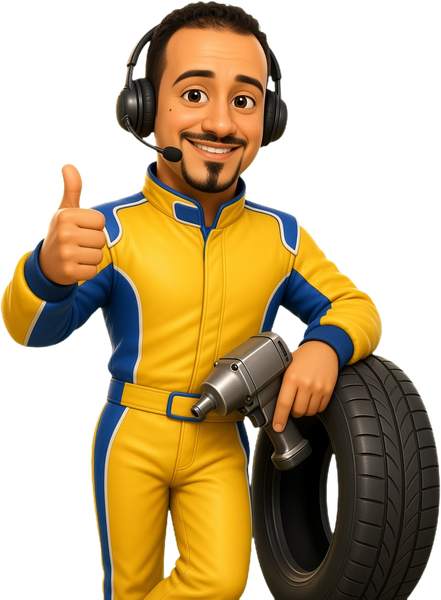
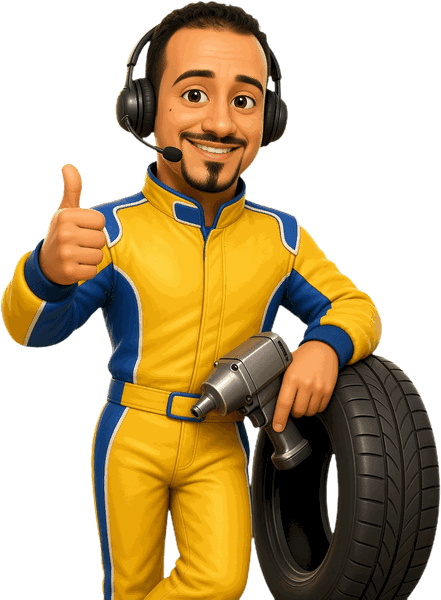
Crazy Dealz: remove leftover National Tire copy, replace the dead mid-page signup form with a call button, compress pit-crew.png, and refresh the privacy note.
The staged signup form stays on the crazydealz-signup-form branch and is not going live.

diff --git a/crazydealz/index.html b/crazydealz/index.html
@@ -27,25 +27,12 @@ html[data-lang=en] .lang-toggle .l-en,html[data-lang=es] .lang-toggle .l-es{back
 .lang-toggle:focus-visible{outline:3px solid #ffd200;outline-offset:3px}
 .bundle{margin:6px 0 10px;font:900 clamp(22px,2.6vw,30px)/1.05 CrazyDisplay,Impact,'Arial Narrow',Arial,sans-serif;text-transform:uppercase;color:var(--acid)}
 .signup{padding:50px 0 30px}
-.signup-form{display:none;max-width:560px;border:1px solid var(--line);background:#0e2a7aed;padding:24px;box-shadow:0 14px 40px #0003}
-.js .signup-form{display:block}
-.signup-form label{display:block;font-weight:700;font-size:15px;margin:0 0 14px}
-.signup-form label .opt{font-weight:400;color:var(--muted)}
-.signup-form input[type=text],.signup-form input[type=email],.signup-form input[type=month]{display:block;width:100%;margin-top:6px;padding:12px;font:16px Arial,Helvetica,sans-serif;border:2px solid #06143a;border-radius:6px;background:#fff;color:#0a2166;min-height:48px}
-.signup-form .consent{display:flex;gap:10px;align-items:flex-start;font-weight:400;font-size:14px;line-height:1.45;color:#fff}
-.signup-form .consent input{width:22px;height:22px;flex:0 0 22px;margin:1px 0 0;accent-color:#ffd200}
-.signup-form .consent a{color:var(--acid)}
-.signup-form button{border:0;cursor:pointer;font-family:Arial,Helvetica,sans-serif}
-.hp{position:absolute!important;left:-9999px!important;width:1px;height:1px;overflow:hidden}
-.form-status{margin:14px 0 0;font-size:15px;min-height:1em}
-.form-status a{color:var(--acid)}
-.form-status.err,.form-status.wait{color:#fff}
-.form-status.ok{color:var(--acid);font-weight:700}
+.signup .button{margin-top:10px}
 .js .mobile-call{transition:transform .25s ease,opacity .25s ease}
 .js .mobile-call.hide{transform:translateY(170%);opacity:0;pointer-events:none}
 footer a{color:inherit}
 html[lang=es] .burst-kicker{font-size:clamp(14px,1.75vw,22px);letter-spacing:.02em}
-@media(max-width:700px){header{justify-content:space-between}.brand small{white-space:nowrap;font-size:10px;letter-spacing:.7px}.lang-toggle{font-size:10px;flex:0 0 auto;padding:2px}.lang-toggle span{padding:5px 6px}.offer-ticker .ticker-track{white-space:normal}.offer-ticker .ticker-item{max-width:100%}.tick-label{min-width:0}html[lang=es] .burst-kicker{font-size:13px;letter-spacing:.03em}.signup-form{padding:18px}.hero-copy{padding-right:min(40vw,150px)}}
+@media(max-width:700px){header{justify-content:space-between}.brand small{white-space:nowrap;font-size:10px;letter-spacing:.7px}.lang-toggle{font-size:10px;flex:0 0 auto;padding:2px}.lang-toggle span{padding:5px 6px}.offer-ticker .ticker-track{white-space:normal}.offer-ticker .ticker-item{max-width:100%}.tick-label{min-width:0}html[lang=es] .burst-kicker{font-size:13px;letter-spacing:.03em}.hero-copy{padding-right:min(40vw,150px)}}
 </style>
 <style>
 @font-face{font-family:CrazyDisplay;src:url(anton-latin-v2.woff2) format("woff2");font-style:normal;font-weight:400 900;font-display:swap}@font-face{font-family:"Rubik Bubbles";src:url(rubik-bubbles.woff2) format("woff2");font-style:normal;font-weight:400;font-display:swap}:root{--asphalt:#0a2166;--panel:#0e2a7a;--ink:#fff;--muted:#c5d0f0;--acid:#ffd200;--line:#6a88d8;--corner:150px}*{box-sizing:border-box}html{scroll-behavior:smooth;scroll-padding-top:100px;overflow-x:clip}body{isolation:isolate;margin:0;background:var(--asphalt);color:var(--ink);font:17px/1.55 Arial,Helvetica,sans-serif;overflow-wrap:break-word}body:before{content:"";position:fixed;inset:0;z-index:-1;pointer-events:none;background:repeating-linear-gradient(113deg,transparent 0 4px,#fff 5px,transparent 6px 11px);opacity:.018}body:after{content:"";position:fixed;inset:-30%;z-index:-1;pointer-events:none;opacity:0;background:conic-gradient(from 30deg at 20% 30%,transparent,#ffd20015,transparent 35%);transform:translate3d(0,0,0)}.fx-enabled body:after{opacity:.8;animation:navy-light 22s ease-in-out infinite alternate}@keyframes navy-light{to{transform:translate3d(8%,4%,0) rotate(12deg)}}a{color:inherit}.hold{position:relative;z-index:8;background:var(--acid);color:#0a2166;text-align:center;padding:8px 20px;font-size:11px;line-height:1.4;font-weight:700}header{position:sticky;top:0;z-index:7;display:flex;align-items:center;justify-content:space-between;gap:16px;padding:20px max(24px,calc(var(--corner)*.96));border-bottom:1px solid var(--line);background:#0a2166f5}.brand{font:900 23px/1 CrazyDisplay,Impact,'Arial Narrow',Arial,sans-serif;letter-spacing:.1px}.brand small{display:block;margin-top:7px;font:10px/1.3 Arial,sans-serif;letter-spacing:2px;color:var(--muted)}.pill{border:1px solid var(--line);padding:8px 14px;border-radius:30px;font-size:12px}.header-call{display:inline-block;text-decoration:none;background:var(--acid);color:#0a2166;padding:12px 18px;font-size:14px;font-weight:bold;white-space:nowrap}.scrolly{max-width:1100px;margin:auto;display:block;position:relative;z-index:2;padding:0 max(5vw,calc(var(--corner)*.55))}.narrative{position:relative;z-index:2;min-width:0;padding:36px 0 0}.hero{padding:28px 0 36px;min-height:0;display:flex;flex-direction:row;align-items:flex-end;justify-content:flex-start;gap:12px 28px}.hero-copy{min-width:0;flex:1}.hero-cta-row{display:flex;align-items:flex-end;flex-wrap:wrap;gap:8px 28px;margin:4px 0 8px}.hero-actions{display:flex;flex-direction:column;align-items:flex-start}.hero-mascot{flex:0 0 auto;width:min(250px,30vw);max-width:250px;pointer-events:none;position:relative;z-index:2}.hero-mascot img{width:100%;height:auto;display:block}.corner-tires{position:fixed;inset:0;z-index:8;pointer-events:none;overflow:hidden}.corner-tire{position:absolute;width:calc(var(--corner)*2);height:calc(var(--corner)*2);pointer-events:none}.corner-tl{top:0;left:0;transform:translate(-50%,-50%)}.corner-tr{top:0;right:0;transform:translate(50%,-50%)}.corner-bl{bottom:0;left:0;transform:translate(-50%,50%)}.corner-br{bottom:0;right:0;transform:translate(50%,50%)}.tire-scroll,.tire-idle{width:100%;height:100%;transform-origin:50% 50%}.corner-tire img{width:100%;height:100%;display:block}.offer-ticker{overflow:hidden;margin:8px 0 36px;padding:18px 0;border-top:1px solid var(--line);border-bottom:1px solid var(--line);background:#0e2a7acc}.ticker-scroll{width:100%}.ticker-idle{width:max-content}.ticker-track{display:flex;align-items:center;gap:56px;width:max-content;white-space:nowrap}.ticker-item{display:flex;align-items:center;gap:16px}.offer-ticker .price-bubble{font-size:clamp(36px,4.2vw,58px);margin:0}.tick-label{font-family:CrazyDisplay,Impact,'Arial Narrow',Arial,sans-serif;text-transform:uppercase;font-weight:900;font-size:clamp(16px,2vw,22px);letter-spacing:.5px;color:#fff;line-height:1}.tick-label small{display:block;margin-top:4px;font:700 11px/1 Arial,sans-serif;letter-spacing:1.5px;color:var(--muted);text-transform:uppercase}.eyebrow,.number{text-transform:uppercase;letter-spacing:2px;color:var(--acid);font-size:11px;font-weight:700}h1,h2,h3{font-family:CrazyDisplay,Impact,'Arial Narrow','Franklin Gothic Condensed',Arial,sans-serif;font-weight:900;line-height:.98;letter-spacing:-1px;text-transform:uppercase}h1{font-size:clamp(54px,6.7vw,108px);margin:24px 0;max-width:760px}h1 span{color:var(--acid)}.intro{font-size:20px;max-width:470px;color:var(--muted)}.intro strong{display:block;color:var(--ink);font-size:17px;font-weight:400;margin-top:15px}.button{display:inline-block;text-decoration:none;background:var(--acid);color:#0a2166;padding:16px 21px;min-height:52px;font-size:14px;font-weight:700;width:fit-content}.hero .button{margin:7px 0}.secondary{background:transparent;color:var(--ink);border:1px solid var(--acid)}.small{font-size:12px;color:var(--muted)}.content{padding:50px 0 80px}h2{font-size:clamp(40px,4vw,62px);margin:15px 0 30px}h3{font-size:30px;margin:0}.grid{display:block}.card{position:relative;min-height:200px;margin:0 0 18px;padding:28px;border:1px solid var(--line);background:#0e2a7aed;box-shadow:0 14px 40px #0003}.card summary{cursor:pointer;list-style:none;display:block;padding-right:44px}.card summary::-webkit-details-marker{display:none}.card summary::marker{content:"";display:none}.card summary:after{content:"+";position:absolute;right:24px;top:19px;color:var(--acid);font-size:27px;line-height:1;font-weight:700}.card[open] summary:after{content:"–"}.card h3{margin:0}.card p{margin:20px 0 0;max-width:330px;color:var(--muted)}.card>a{display:inline-block;margin-top:16px;color:var(--acid);text-underline-offset:4px}.card:nth-child(even){border-left:3px solid var(--acid)}.visit{background:var(--acid);color:#0a2166;padding:32px;margin:25px 0 40px}.visit .number,.visit .small,.visit .muted{color:#163070}.visit h2{font-size:44px}address{font-style:normal;font-size:20px}address strong{font-weight:700}.visit dl{padding-top:22px}dt{font-weight:bold}dd{margin:3px 0 19px}.visit a{text-underline-offset:4px}.map{width:100%;height:230px;border:0;margin-top:15px}details{border-top:1px solid var(--line);padding:19px 0}summary{cursor:pointer;font-size:17px;font-weight:bold;list-style-position:outside;margin-left:18px}details p{color:var(--muted);font-size:15px}.visit details{border-color:#0a2166}.bottom{margin-top:60px;padding-top:30px;border-top:1px solid var(--line)}.muted{color:var(--muted)}.mobile-call{display:none}footer{position:relative;z-index:2;border-top:1px solid var(--line);padding:35px 5vw 45px;color:var(--muted);font-size:12px;line-height:2}a:focus-visible,summary:focus-visible{outline:3px solid #ffd200;outline-offset:5px}.button:focus-visible,.header-call:focus-visible,.visit a:focus-visible{outline-color:#0a2166}.reveal{opacity:1} .io-ready .reveal:not(.in-view){opacity:.7;transform:translateY(20px)}.io-ready .reveal{transition:opacity .5s ease,transform .5s ease}
@@ -318,7 +305,7 @@ header{padding:8px max(10px,calc(var(--corner) + 10px));gap:6px}
 <article class="price-card reveal"><h3 data-es="Rin con grieta">Cracked rim</h3><p class="price-tag"><span class="visually-hidden">$129.98</span><span aria-hidden="true" class="price-bubble"><span class="dlr">$</span>129<sup>98</sup></span></p><p class="muted" data-es="Reparación de rin">Rim repair</p></article>
 <article class="price-card reveal"><h3 data-es="Rin doblado">Bent rim</h3><p class="price-tag"><span class="visually-hidden">$69.98</span><span aria-hidden="true" class="price-bubble"><span class="dlr">$</span>69<sup>98</sup></span></p><p class="muted" data-es="Reparación de rin">Rim repair</p></article>
 </div><p class="bundle reveal" data-es="Pregunte por paquetes especiales.">Ask about bundle deals.</p><p class="small reveal" data-es="Precios publicados en el taller. Llame para su medida y su vehículo.">Prices as posted at the shop. Call for your size and vehicle.</p></section>
-<section aria-labelledby="visit" class="visit reveal"><div><div class="number" data-es="VISÍTENOS">PULL INTO THE PIT</div><h2 id="visit" data-es="Su parada en Macon Road.">Your Macon Road pit stop.</h2><address><strong>Crazy Dealz Tires</strong><br/>3395 Macon Rd<br/>Memphis, TN 38122<br/><a href="tel:+16465068189">(646) 506-8189</a></address><p class="muted" data-es="Atendemos Binghampton y los vecindarios cercanos de Memphis, cerca de la salida 6 de la I-40.">Serving Binghampton and nearby Memphis neighborhoods, near I-40 Exit 6.</p><p class="small" data-es="Estamos donde antes estaba National Tire Shop, 3395 Macon Rd.">Located at the former National Tire Shop spot, 3395 Macon Rd.</p>
+<section aria-labelledby="visit" class="visit reveal"><div><div class="number" data-es="VISÍTENOS">PULL INTO THE PIT</div><h2 id="visit" data-es="Su parada en Macon Road.">Your Macon Road pit stop.</h2><address><strong>Crazy Dealz Tires</strong><br/>3395 Macon Rd<br/>Memphis, TN 38122<br/><a href="tel:+16465068189">(646) 506-8189</a></address><p class="muted" data-es="Atendemos Binghampton y los vecindarios cercanos de Memphis, cerca de la salida 6 de la I-40.">Serving Binghampton and nearby Memphis neighborhoods, near I-40 Exit 6.</p>
 <figure class="shop-photo">
 <picture>
 <source srcset="storefront-wide-800.webp 800w, storefront-wide.webp 1200w" sizes="(max-width:700px) 92vw, 520px" type="image/webp"/>
@@ -326,21 +313,9 @@ header{padding:8px max(10px,calc(var(--corner) + 10px));gap:6px}
 </picture>
 </figure>
 <a href="https://www.google.com/maps/search/?api=1&amp;query=3395+Macon+Rd+Memphis+TN+38122" data-es="Ver en el mapa →">Map the pit on Macon Rd →</a></div><div><dl><dt data-es="Horario">Shop hours</dt><dd data-es="Lun–Vie 7:30 AM–7 PM<br/>Sáb 8 AM–7 PM<br/>Dom 10 AM–5 PM">Mon–Fri 7:30 AM–7 PM<br/>Sat 8 AM–7 PM<br/>Sun 10 AM–5 PM</dd><dt data-es="Antes de llamar">Before you call</dt><dd data-es="Tenga a la mano el año, la marca y el modelo de su vehículo y la medida de la llanta.">Have your vehicle’s year, make, model and tire size ready.</dd><dt data-es="Antes de empezar el trabajo">Before work begins</dt><dd data-es="Su cotización detalla las llantas, la mano de obra, los cargos aplicables y los impuestos.">Your quote lists the tires, labor, applicable fees and tax.</dd></dl><details><summary data-es="Mostrar mapa de Google">Show Google map</summary><iframe class="map" data-src="https://maps.google.com/maps?q=3395%20Macon%20Rd%20Memphis%20TN%2038122&amp;output=embed" loading="lazy" referrerpolicy="no-referrer-when-downgrade" title="Map of 3395 Macon Rd, Memphis" data-es-title="Mapa de 3395 Macon Rd, Memphis"></iframe></details></div></section>
-<section aria-labelledby="signup" class="signup reveal" id="join"><div class="number" data-es="LISTA DEL EQUIPO">PIT CREW LIST</div><h2 id="signup" data-es="Únase a la lista del equipo.">Join the pit crew list.</h2><p class="muted" data-es="Ofertas y recordatorios de llantas y aceite por correo electrónico. Sin mensajes de texto.">Deals plus tire and oil reminders by email. No texts.</p>
-<noscript><p>Call (646) 506-8189 to join the list. / Llame al (646) 506-8189 para unirse a la lista.</p></noscript>
-<form class="signup-form" id="signup-form" data-endpoint="" novalidate>
-<input type="hidden" name="_subject" value="New Crazy Dealz pit crew list sign-up"/>
-<input type="hidden" name="language" id="f-lang" value="en"/>
-<input type="hidden" name="source" value="ai901.help/crazydealz"/>
-<label class="hp" aria-hidden="true">Leave blank<input type="text" name="_honey" tabindex="-1" autocomplete="off"/></label>
-<label><span data-es="Nombre">First name</span><input type="text" name="first_name" autocomplete="given-name" required maxlength="60"/></label>
-<label><span data-es="Correo electrónico">Email</span><input type="email" name="email" autocomplete="email" required maxlength="120"/></label>
-<label><span data-es="Vehículo: año, marca y modelo <span class='opt'>(opcional)</span>">Vehicle year, make and model <span class="opt">(optional)</span></span><input type="text" name="vehicle" maxlength="80" placeholder="2015 Honda Accord"/></label>
-<label><span data-es="Mes del próximo cambio de aceite <span class='opt'>(opcional)</span>">Next oil change due <span class="opt">(optional)</span></span><input type="month" name="oil_due" min="2026-11"/></label>
-<label class="consent"><input type="checkbox" name="email_consent" value="yes" required/><span data-es="Sí, envíenme por correo ofertas y recordatorios de aceite y llantas de Crazy Dealz Tires. Puedo darme de baja cuando quiera. Crazy Dealz Tires no vende mi información. Vea el <a href='privacy.html#es'>aviso de privacidad</a>.">Yes, email me Crazy Dealz Tires deals and oil and tire reminders. I can unsubscribe anytime. Crazy Dealz Tires does not sell my information. See the <a href="privacy.html">privacy note</a>.</span></label>
-<button type="submit" class="button" data-es="Unirme a la lista">Join the list</button>
-<p class="form-status" id="form-status" role="status" aria-live="polite"></p>
-</form></section>
+<section aria-labelledby="call-shop" class="signup reveal" id="join"><div class="number" data-es="LLAME AL TALLER">CALL THE PIT CREW</div><h2 id="call-shop" data-es="¿Necesita llantas usadas, un cambio de aceite o frenos?">Need used tires, an oil change, or brakes?</h2><p class="muted" data-es="Llame al taller o pase al 3395 Macon Rd.">Call the shop or stop by 3395 Macon Rd.</p>
+<p><a class="button" href="tel:+16465068189" aria-label="Call the pit crew at (646) 506-8189" data-es-aria="Llame al equipo al (646) 506-8189" data-es="Llame al equipo · (646) 506-8189">Call the pit crew · (646) 506-8189</a></p>
+</section>
 <section class="content"><div class="number" data-es="PREGUNTAS">PIT FAQS</div><h2 class="reveal" data-es="Antes de venir.">Before you pull in.</h2>
 <details class="reveal"><summary data-es="¿Dónde está Crazy Dealz Tires?">Where is Crazy Dealz Tires?</summary><p>3395 Macon Rd, Memphis, TN 38122.</p></details>
 <details class="reveal"><summary data-es="¿Venden llantas usadas?">Do you sell used tires?</summary><p data-es="Sí. Tenemos llantas usadas desde $34.98 en la mayoría de medidas.">Yes. Used tires start at $34.98 for most sizes.</p></details>
@@ -352,7 +327,6 @@ header{padding:8px max(10px,calc(var(--corner) + 10px));gap:6px}
 <details class="reveal"><summary data-es="¿Reparan ponchaduras?">Can you fix a flat?</summary><p data-es="Toda reparación empieza con una inspección. Llame para ver si podemos reparar la suya. <a href='flat-repair/'>Más sobre ponchaduras</a>.">Every flat repair starts with an inspection. Call to see if we can fix yours. <a href="flat-repair/">More on flat repair</a>.</p></details>
 <details class="reveal"><summary data-es="¿Montan y balancean llantas?">Do you mount and balance tires?</summary><p data-es="Sí, para llantas y rines compatibles. Llame con la medida de su llanta. <a href='mount-and-balance/'>Más sobre montaje y balanceo</a>.">Yes, for compatible tires and wheels. Call with your tire size. <a href="mount-and-balance/">More on mount &amp; balance</a>.</p></details>
 <details class="reveal"><summary data-es="¿Dónde encuentro la medida de mi llanta?">Where do I find my tire size?</summary><p data-es="Está impresa en el costado de la llanta, por ejemplo 205/55R16. Léanosla cuando llame.">It is printed on the side of the tire, for example 205/55R16. Read it to us when you call.</p></details>
-<details class="reveal"><summary data-es="¿Es el antiguo National Tire Shop?">Is this the old National Tire Shop spot?</summary><p data-es="Sí. Crazy Dealz Tires está donde antes estaba National Tire Shop, en 3395 Macon Rd. Nuestro número es (646) 506-8189.">Yes. Crazy Dealz Tires is at the former National Tire Shop spot, 3395 Macon Rd. Our number is (646) 506-8189.</p></details>
 <details class="reveal"><summary data-es="¿Qué zona atienden?">What area do you serve?</summary><p data-es="Binghampton y los vecindarios cercanos de Memphis, cerca de la salida 6 de la I-40.">Binghampton and nearby Memphis neighborhoods, near I-40 Exit 6.</p></details>
 <details class="reveal"><summary data-es="¿Cuál es su horario?">What are your hours?</summary><p data-es="Lun–Vie 7:30 AM–7 PM, Sáb 8 AM–7 PM, Dom 10 AM–5 PM.">Mon–Fri 7:30 AM–7 PM, Sat 8 AM–7 PM, Sun 10 AM–5 PM.</p></details>
 <div class="bottom reveal"><h2 data-es="Llame al equipo.">Call the pit crew.</h2><p class="muted" data-es="Díganos su vehículo y la medida de su llanta, y toque Llamar.">Tell us your vehicle and tire size, then tap Call.</p><a class="button" href="tel:+16465068189" data-es="Llamar (646) 506-8189">Call (646) 506-8189</a></div></section><a class="mobile-call button" href="tel:+16465068189" aria-label="Call the pit crew at (646) 506-8189" data-es-aria="Llame al equipo al (646) 506-8189" data-es="Llame al equipo">Call the pit crew</a></div></div></main>
@@ -366,29 +340,15 @@ document.querySelectorAll('details').forEach(d=>d.addEventListener('toggle',()=>
 </script><script>
 (()=>{'use strict';const d=document.documentElement;
 const META={en:{title:document.title,desc:(document.querySelector('meta[name=description]')||{}).content||''},es:{title:'Llantas usadas en Memphis, TN | Crazy Dealz Tires en Macon Rd',desc:'Llantas usadas desde $34.98 en la mayoría de medidas, cambio de aceite $24.98, frenos $39.98 y reparación de rines. Crazy Dealz Tires, 3395 Macon Rd, Memphis, TN 38122. Llame al (646) 506-8189.'}};
-const MSG={en:{none:'Online sign-up is not open yet, so nothing was sent. Ask the pit crew to add you at the counter, or <a href="tel:+16465068189">call (646) 506-8189</a>.',wait:'Sending…',ok:'You are on the list. Welcome to the pit crew!',err:'That did not go through. Please <a href="tel:+16465068189">call (646) 506-8189</a> and we will add you.',first:'Please enter your first name.',email:'Please enter a valid email.',consent:'Please check the box so we can email you.'},es:{none:'La inscripción en línea aún no está abierta, así que no se envió nada. Pida al equipo que lo agregue en el mostrador o <a href="tel:+16465068189">llame al (646) 506-8189</a>.',wait:'Enviando…',ok:'¡Ya está en la lista! Bienvenido al equipo.',err:'No se pudo enviar. Por favor <a href="tel:+16465068189">llame al (646) 506-8189</a> y lo agregamos.',first:'Escriba su nombre.',email:'Escriba un correo electrónico válido.',consent:'Marque la casilla para que podamos enviarle correos.'}};
 const pairs=[['data-es',null],['data-es-aria','aria-label'],['data-es-alt','alt'],['data-es-title','title'],['data-es-href','href']];
 let lang=d.getAttribute('data-lang')==='es'?'es':'en';
 function apply(l){lang=l;d.lang=l;d.setAttribute('data-lang',l);
 pairs.forEach(([a,attr])=>document.querySelectorAll('['+a+']').forEach(el=>{const k='en_'+(attr||'html');if(el[k]===undefined)el[k]=attr?el.getAttribute(attr):el.innerHTML;const v=l==='es'?el.getAttribute(a):el[k];if(attr){if(v==null)el.removeAttribute(attr);else el.setAttribute(attr,v);}else el.innerHTML=v;}));
 document.title=META[l].title;const md=document.querySelector('meta[name=description]');if(md)md.content=META[l].desc;
-const f=document.getElementById('f-lang');if(f)f.value=l;const st=document.getElementById('form-status');if(st){st.textContent='';st.className='form-status';}
 d.classList.remove('i18n-pending');}
 apply(lang);
 const t=document.getElementById('lang-toggle');if(t)t.addEventListener('click',()=>{const n=lang==='es'?'en':'es';try{localStorage.setItem('cdz-lang',n)}catch(e){}apply(n);});
-/* sign-up */
-const form=document.getElementById('signup-form'),st=document.getElementById('form-status');
-function say(k,cls){st.innerHTML=MSG[lang][k];st.className='form-status '+cls;}
-if(form)form.addEventListener('submit',async e=>{e.preventDefault();const fn=form.first_name,em=form.email,cb=form.email_consent;
-if(!fn.value.trim()){say('first','err');fn.focus();return}
-if(!em.value.trim()||!em.checkValidity()){say('email','err');em.focus();return}
-if(!cb.checked){say('consent','err');cb.focus();return}
-if(form._honey&&form._honey.value){say('ok','ok');form.reset();return}
-const ep=(form.dataset.endpoint||'').trim();if(!ep){say('none','err');return}
-say('wait','wait');const btn=form.querySelector('button');btn.disabled=true;
-try{const fd=new FormData(form);fd.set('consent_text',form.querySelector('.consent span').textContent.trim());fd.set('consent_time',new Date().toISOString());
-const r=await fetch(ep,{method:'POST',headers:{Accept:'application/json'},body:fd});if(!r.ok)throw new Error(r.status);form.reset();document.getElementById('f-lang').value=lang;say('ok','ok');}catch(err){say('err','err');}finally{btn.disabled=false;}});
-/* phone call bar: hide while the hero call button or the sign-up form is on screen */
+/* phone call bar: hide while the hero call button or the mid-page call button is on screen */
 const bar=document.querySelector('.mobile-call'),heroBtns=document.querySelector('.hero-actions'),sign=document.getElementById('join');
 if(bar&&'IntersectionObserver'in window){const vis=new Map();const upd=()=>{const hide=[...vis.values()].some(Boolean);bar.classList.toggle('hide',hide);};
 const io=new IntersectionObserver(es=>{es.forEach(x=>vis.set(x.target,x.isIntersecting));upd();},{threshold:0});[heroBtns,sign].forEach(n=>{if(n){vis.set(n,true);io.observe(n);}});upd();}

diff --git a/crazydealz/privacy.html b/crazydealz/privacy.html
@@ -1,50 +1,60 @@
 <!DOCTYPE html>
 <html lang="en"><head><meta charset="utf-8"/><meta name="viewport" content="width=device-width,initial-scale=1"/>
 <title>Privacy note | Crazy Dealz Tires</title>
-<meta name="description" content="How Crazy Dealz Tires handles the pit crew email list: what we collect, how to unsubscribe, and our promise not to sell your information."/>
+<meta name="description" content="How Crazy Dealz Tires handles contact information you share with the shop, and our promise not to sell your information."/>
 <link rel="canonical" href="https://ai901.help/crazydealz/privacy.html"/>
 <meta name="theme-color" content="#0a2166"/>
+<meta property="og:type" content="website"/>
+<meta property="og:title" content="Privacy note | Crazy Dealz Tires"/>
+<meta property="og:description" content="How Crazy Dealz Tires handles contact information you share with the shop, and our promise not to sell your information."/>
+<meta property="og:url" content="https://ai901.help/crazydealz/privacy.html"/>
+<meta property="og:image" content="https://ai901.help/crazydealz/og-image.jpg"/>
+<meta property="og:image:alt" content="Crazy Dealz Tires used tires on Macon Rd in Memphis. Used tires $34.98 most sizes. Call (646) 506-8189."/>
+<meta name="twitter:card" content="summary_large_image"/>
+<meta name="twitter:title" content="Privacy note | Crazy Dealz Tires"/>
+<meta name="twitter:description" content="How Crazy Dealz Tires handles contact information you share with the shop, and our promise not to sell your information."/>
+<meta name="twitter:image" content="https://ai901.help/crazydealz/og-image.jpg"/>
 <style>body{font:17px/1.6 Arial,Helvetica,sans-serif;max-width:720px;margin:0 auto;padding:28px 20px 60px;color:#0a2166;background:#fff}h1,h2{line-height:1.2}h1{font-size:30px}h2{font-size:21px;margin-top:28px}a{color:#0a2166}.top{display:flex;justify-content:space-between;gap:12px;flex-wrap:wrap;font-weight:700}hr{margin:44px 0;border:0;border-top:2px solid #ffd200}.small{font-size:14px;color:#3a4a7a}</style>
 </head><body>
 <p class="top"><a href="./">← Crazy Dealz Tires</a><a href="#es" lang="es">Español</a></p>
 <section id="en">
 <h1>Crazy Dealz Tires privacy note</h1>
-<p class="small">Last updated November 11, 2026. Covers the pit crew email list on this website.</p>
+<p class="small">Last updated November 15, 2026. Online sign-up on this website is not open yet. This note covers contact information you share with the shop by calling or at the counter.</p>
 <h2>What we collect</h2>
-<p>When you join the pit crew list we collect your first name and email address. If you choose to share them, we also collect your vehicle year, make and model and the month your next oil change is due. We record that you checked the consent box, the time you signed up, and whether you viewed the page in English or Spanish.</p>
+<p>If you give the shop your name, phone number, email address, or vehicle details so we can help you, we keep that information for shop use. We do not collect sign-ups through a form on this website today.</p>
 <h2>Why we collect it</h2>
-<p>To email you shop deals, oil change and tire check reminders, and the occasional request for a review after a visit. We only email you if you check the consent box.</p>
-<h2>No texts from this form</h2>
-<p>This form does not sign you up for text messages. We will not text you marketing messages based on this form.</p>
+<p>To reach you about your visit, a quote, or service reminders you asked for. We do not add you to a marketing list unless you ask us to.</p>
+<h2>Texts</h2>
+<p>Texting is not set up yet. Sharing your phone number with the shop does not sign you up for marketing texts.</p>
 <h2>We do not sell your information</h2>
-<p>Crazy Dealz Tires does not sell, rent or trade your information. It is kept in the shop's private customer list and in the service providers we use to collect sign-ups and send email, only for the reasons above. ai901, the shop's website and marketing helper, may manage the list for the shop under the same rules.</p>
-<h2>Unsubscribe anytime</h2>
-<p>Every email includes an unsubscribe link and the shop's address. You can also reply "unsubscribe" or call (646) 506-8189. We stop emailing you within 10 business days of your request.</p>
+<p>Crazy Dealz Tires does not sell, rent or trade your information. It is kept in the shop's private customer records, only for the reasons above. ai901, the shop's website and marketing helper, may help the shop under the same rules.</p>
+<h2>How to reach us or ask us to stop</h2>
+<p>Call (646) 506-8189 to ask us to correct or delete your information, or to stop contacting you. We will handle that request within 10 business days.</p>
 <h2>How long we keep it</h2>
-<p>We keep your information while you are on the list. If you unsubscribe we keep only your email on a do-not-email list so we do not contact you again. You can ask us to delete or correct your information at any time by calling the shop.</p>
+<p>We keep your information while we need it for your service or while you have asked us to stay in touch. You can ask us to delete or correct it at any time by calling the shop.</p>
 <h2>Kids</h2>
-<p>The list is for adults. We do not knowingly collect information from children under 13.</p>
+<p>Our services are for adults. We do not knowingly collect information from children under 13.</p>
 <h2>Contact</h2>
 <p>Crazy Dealz Tires · 3395 Macon Rd, Memphis, TN 38122 · <a href="tel:+16465068189">(646) 506-8189</a></p>
 </section>
 <hr/>
 <section id="es" lang="es">
 <h1>Aviso de privacidad de Crazy Dealz Tires</h1>
-<p class="small">Última actualización: 11 de noviembre de 2026. Aplica a la lista de correo del equipo en este sitio web.</p>
+<p class="small">Última actualización: 15 de noviembre de 2026. La inscripción en línea en este sitio web aún no está abierta. Este aviso cubre la información de contacto que usted comparte con el taller por teléfono o en el mostrador.</p>
 <h2>Qué información recopilamos</h2>
-<p>Cuando se une a la lista recopilamos su nombre y su correo electrónico. Si decide compartirlos, también recopilamos el año, la marca y el modelo de su vehículo y el mes de su próximo cambio de aceite. Registramos que marcó la casilla de consentimiento, la hora en que se inscribió y si vio la página en inglés o en español.</p>
+<p>Si nos da su nombre, teléfono, correo electrónico o datos de su vehículo para que podamos atenderlo, guardamos esa información para uso del taller. Hoy no recopilamos inscripciones por un formulario en este sitio web.</p>
 <h2>Para qué la usamos</h2>
-<p>Para enviarle por correo ofertas del taller, recordatorios de cambio de aceite y revisión de llantas, y de vez en cuando pedirle una reseña después de su visita. Solo le enviamos correos si marca la casilla de consentimiento.</p>
-<h2>Sin mensajes de texto</h2>
-<p>Este formulario no lo inscribe para recibir mensajes de texto. No le enviaremos mensajes de texto de mercadeo por este formulario.</p>
+<p>Para comunicarnos con usted sobre su visita, una cotización o recordatorios de servicio que usted pidió. No lo agregamos a una lista de mercadeo a menos que nos lo pida.</p>
+<h2>Mensajes de texto</h2>
+<p>El envío de mensajes de texto aún no está configurado. Dar su teléfono al taller no lo inscribe para recibir mensajes de texto de mercadeo.</p>
 <h2>No vendemos su información</h2>
-<p>Crazy Dealz Tires no vende, alquila ni intercambia su información. Se guarda en la lista privada de clientes del taller y en los servicios que usamos para recibir inscripciones y enviar correos, solo para los fines anteriores. ai901, quien ayuda al taller con su sitio web y mercadeo, puede manejar la lista para el taller bajo las mismas reglas.</p>
-<h2>Dese de baja cuando quiera</h2>
-<p>Cada correo incluye un enlace para darse de baja y la dirección del taller. También puede responder "baja" o llamar al (646) 506-8189. Dejamos de enviarle correos dentro de 10 días hábiles después de su solicitud.</p>
+<p>Crazy Dealz Tires no vende, alquila ni intercambia su información. Se guarda en los registros privados del taller, solo para los fines anteriores. ai901, quien ayuda al taller con su sitio web y mercadeo, puede ayudar al taller bajo las mismas reglas.</p>
+<h2>Cómo contactarnos o pedirnos que paremos</h2>
+<p>Llame al (646) 506-8189 para pedirnos que corrijamos o borremos su información, o que dejemos de contactarlo. Atenderemos esa solicitud dentro de 10 días hábiles.</p>
 <h2>Cuánto tiempo la guardamos</h2>
-<p>Guardamos su información mientras esté en la lista. Si se da de baja, solo guardamos su correo en una lista de no contactar para no volver a escribirle. Puede pedirnos que borremos o corrijamos su información en cualquier momento llamando al taller.</p>
+<p>Guardamos su información mientras la necesitemos para su servicio o mientras usted nos haya pedido que lo mantengamos informado. Puede pedirnos que la borremos o corrijamos en cualquier momento llamando al taller.</p>
 <h2>Menores</h2>
-<p>La lista es para adultos. No recopilamos a sabiendas información de menores de 13 años.</p>
+<p>Nuestros servicios son para adultos. No recopilamos a sabiendas información de menores de 13 años.</p>
 <h2>Contacto</h2>
 <p>Crazy Dealz Tires · 3395 Macon Rd, Memphis, TN 38122 · <a href="tel:+16465068189">(646) 506-8189</a></p>
 </section>

diff --git a/crazydealz/brakes/index.html b/crazydealz/brakes/index.html
@@ -97,7 +97,7 @@
 <section class="visit"><h2 data-es="Su parada en Macon Road.">Your Macon Road pit stop.</h2>
 <address><strong>Crazy Dealz Tires</strong><br/>3395 Macon Rd<br/>Memphis, TN 38122<br/><a href="tel:+16465068189">(646) 506-8189</a></address>
 <p data-es="Lun–Vie 7:30 AM–7 PM · Sáb 8 AM–7 PM · Dom 10 AM–5 PM">Mon–Fri 7:30 AM–7 PM · Sat 8 AM–7 PM · Sun 10 AM–5 PM</p>
-<p class="small" data-es="Cerca de la salida 6 de la I-40, donde antes estaba National Tire Shop.">Near I-40 Exit 6, at the former National Tire Shop spot.</p>
+<p class="small" data-es="Cerca de la salida 6 de la I-40, en 3395 Macon Rd.">Near I-40 Exit 6, at 3395 Macon Rd.</p>
 <p><a href="https://www.google.com/maps/dir/?api=1&amp;destination=3395+Macon+Rd+Memphis+TN+38122" data-es="Cómo llegar →">Get directions →</a></p></section>
 <section class="more"><h2 data-es="Más trabajo del equipo">More pit crew work</h2><p><a class="rel" href="../oil-change/" data-es="Cambio de aceite →">Oil change →</a> <a class="rel" href="../used-tires/" data-es="Llantas usadas →">Used tires →</a> <a class="rel" href="../mount-and-balance/" data-es="Montaje y balanceo →">Mount &amp; balance →</a></p><p><a class="rel" href="../#prices" data-es="Ver todos los precios →">See all pit row prices →</a></p></section>
 </main>

diff --git a/crazydealz/used-tires/index.html b/crazydealz/used-tires/index.html
@@ -99,7 +99,7 @@
 <section class="visit"><h2 data-es="Su parada en Macon Road.">Your Macon Road pit stop.</h2>
 <address><strong>Crazy Dealz Tires</strong><br/>3395 Macon Rd<br/>Memphis, TN 38122<br/><a href="tel:+16465068189">(646) 506-8189</a></address>
 <p data-es="Lun–Vie 7:30 AM–7 PM · Sáb 8 AM–7 PM · Dom 10 AM–5 PM">Mon–Fri 7:30 AM–7 PM · Sat 8 AM–7 PM · Sun 10 AM–5 PM</p>
-<p class="small" data-es="Cerca de la salida 6 de la I-40, donde antes estaba National Tire Shop.">Near I-40 Exit 6, at the former National Tire Shop spot.</p>
+<p class="small" data-es="Cerca de la salida 6 de la I-40, en 3395 Macon Rd.">Near I-40 Exit 6, at 3395 Macon Rd.</p>
 <p><a href="https://www.google.com/maps/dir/?api=1&amp;destination=3395+Macon+Rd+Memphis+TN+38122" data-es="Cómo llegar →">Get directions →</a></p></section>
 <section class="more"><h2 data-es="Más trabajo del equipo">More pit crew work</h2><p><a class="rel" href="../mount-and-balance/" data-es="Montaje y balanceo →">Mount &amp; balance →</a> <a class="rel" href="../flat-repair/" data-es="Ponchaduras →">Flat repair →</a> <a class="rel" href="../oil-change/" data-es="Cambio de aceite →">Oil change →</a></p><p><a class="rel" href="../#prices" data-es="Ver todos los precios →">See all pit row prices →</a></p></section>
 </main>

diff --git a/crazydealz/flat-repair/index.html b/crazydealz/flat-repair/index.html
@@ -93,7 +93,7 @@
 <section class="visit"><h2 data-es="Su parada en Macon Road.">Your Macon Road pit stop.</h2>
 <address><strong>Crazy Dealz Tires</strong><br/>3395 Macon Rd<br/>Memphis, TN 38122<br/><a href="tel:+16465068189">(646) 506-8189</a></address>
 <p data-es="Lun–Vie 7:30 AM–7 PM · Sáb 8 AM–7 PM · Dom 10 AM–5 PM">Mon–Fri 7:30 AM–7 PM · Sat 8 AM–7 PM · Sun 10 AM–5 PM</p>
-<p class="small" data-es="Cerca de la salida 6 de la I-40, donde antes estaba National Tire Shop.">Near I-40 Exit 6, at the former National Tire Shop spot.</p>
+<p class="small" data-es="Cerca de la salida 6 de la I-40, en 3395 Macon Rd.">Near I-40 Exit 6, at 3395 Macon Rd.</p>
 <p><a href="https://www.google.com/maps/dir/?api=1&amp;destination=3395+Macon+Rd+Memphis+TN+38122" data-es="Cómo llegar →">Get directions →</a></p></section>
 <section class="more"><h2 data-es="Más trabajo del equipo">More pit crew work</h2><p><a class="rel" href="../used-tires/" data-es="Llantas usadas →">Used tires →</a> <a class="rel" href="../mount-and-balance/" data-es="Montaje y balanceo →">Mount &amp; balance →</a> <a class="rel" href="../brakes/" data-es="Frenos →">Brakes →</a></p><p><a class="rel" href="../#prices" data-es="Ver todos los precios →">See all pit row prices →</a></p></section>
 </main>

diff --git a/crazydealz/mount-and-balance/index.html b/crazydealz/mount-and-balance/index.html
@@ -93,7 +93,7 @@
 <section class="visit"><h2 data-es="Su parada en Macon Road.">Your Macon Road pit stop.</h2>
 <address><strong>Crazy Dealz Tires</strong><br/>3395 Macon Rd<br/>Memphis, TN 38122<br/><a href="tel:+16465068189">(646) 506-8189</a></address>
 <p data-es="Lun–Vie 7:30 AM–7 PM · Sáb 8 AM–7 PM · Dom 10 AM–5 PM">Mon–Fri 7:30 AM–7 PM · Sat 8 AM–7 PM · Sun 10 AM–5 PM</p>
-<p class="small" data-es="Cerca de la salida 6 de la I-40, donde antes estaba National Tire Shop.">Near I-40 Exit 6, at the former National Tire Shop spot.</p>
+<p class="small" data-es="Cerca de la salida 6 de la I-40, en 3395 Macon Rd.">Near I-40 Exit 6, at 3395 Macon Rd.</p>
 <p><a href="https://www.google.com/maps/dir/?api=1&amp;destination=3395+Macon+Rd+Memphis+TN+38122" data-es="Cómo llegar →">Get directions →</a></p></section>
 <section class="more"><h2 data-es="Más trabajo del equipo">More pit crew work</h2><p><a class="rel" href="../used-tires/" data-es="Llantas usadas →">Used tires →</a> <a class="rel" href="../flat-repair/" data-es="Ponchaduras →">Flat repair →</a> <a class="rel" href="../oil-change/" data-es="Cambio de aceite →">Oil change →</a></p><p><a class="rel" href="../#prices" data-es="Ver todos los precios →">See all pit row prices →</a></p></section>
 </main>

diff --git a/crazydealz/oil-change/index.html b/crazydealz/oil-change/index.html
@@ -97,7 +97,7 @@
 <section class="visit"><h2 data-es="Su parada en Macon Road.">Your Macon Road pit stop.</h2>
 <address><strong>Crazy Dealz Tires</strong><br/>3395 Macon Rd<br/>Memphis, TN 38122<br/><a href="tel:+16465068189">(646) 506-8189</a></address>
 <p data-es="Lun–Vie 7:30 AM–7 PM · Sáb 8 AM–7 PM · Dom 10 AM–5 PM">Mon–Fri 7:30 AM–7 PM · Sat 8 AM–7 PM · Sun 10 AM–5 PM</p>
-<p class="small" data-es="Cerca de la salida 6 de la I-40, donde antes estaba National Tire Shop.">Near I-40 Exit 6, at the former National Tire Shop spot.</p>
+<p class="small" data-es="Cerca de la salida 6 de la I-40, en 3395 Macon Rd.">Near I-40 Exit 6, at 3395 Macon Rd.</p>
 <p><a href="https://www.google.com/maps/dir/?api=1&amp;destination=3395+Macon+Rd+Memphis+TN+38122" data-es="Cómo llegar →">Get directions →</a></p></section>
 <section class="more"><h2 data-es="Más trabajo del equipo">More pit crew work</h2><p><a class="rel" href="../brakes/" data-es="Frenos →">Brakes →</a> <a class="rel" href="../used-tires/" data-es="Llantas usadas →">Used tires →</a> <a class="rel" href="../flat-repair/" data-es="Ponchaduras →">Flat repair →</a></p><p><a class="rel" href="../#prices" data-es="Ver todos los precios →">See all pit row prices →</a></p></section>
 </main>
